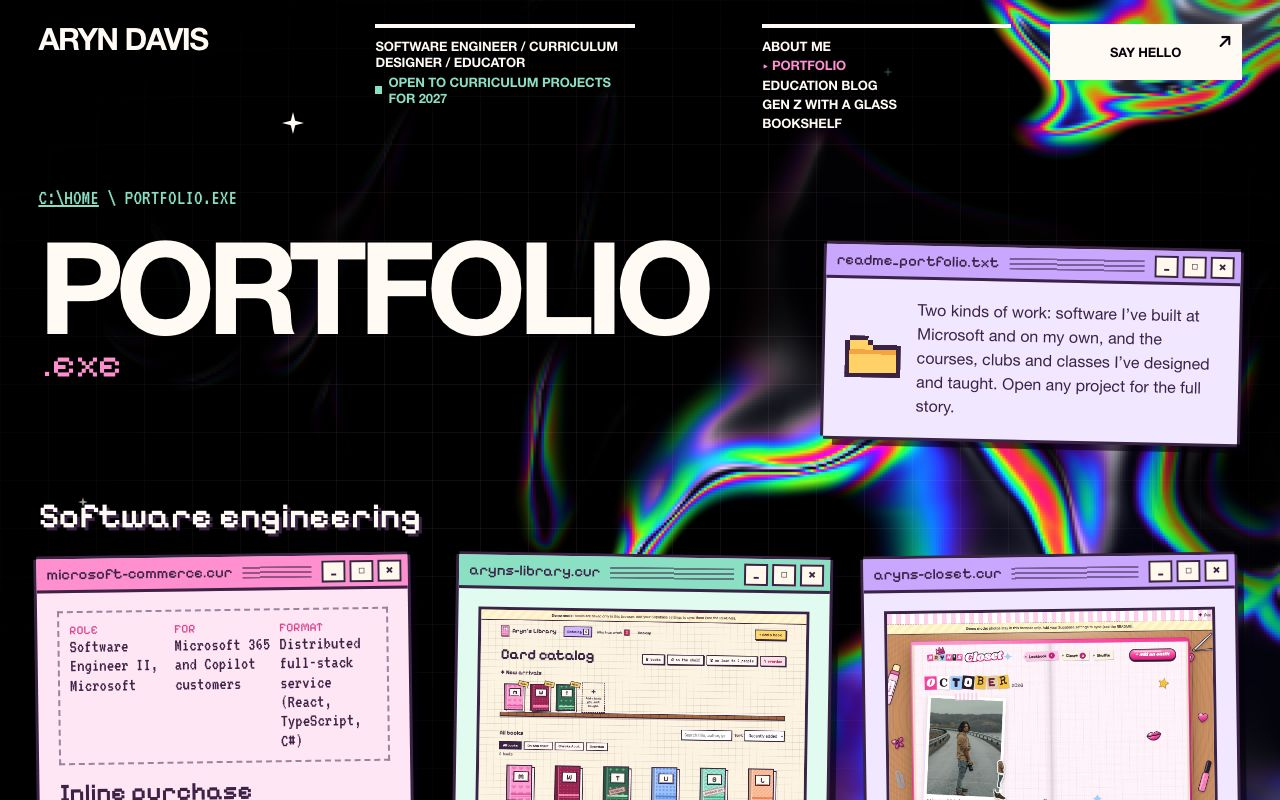
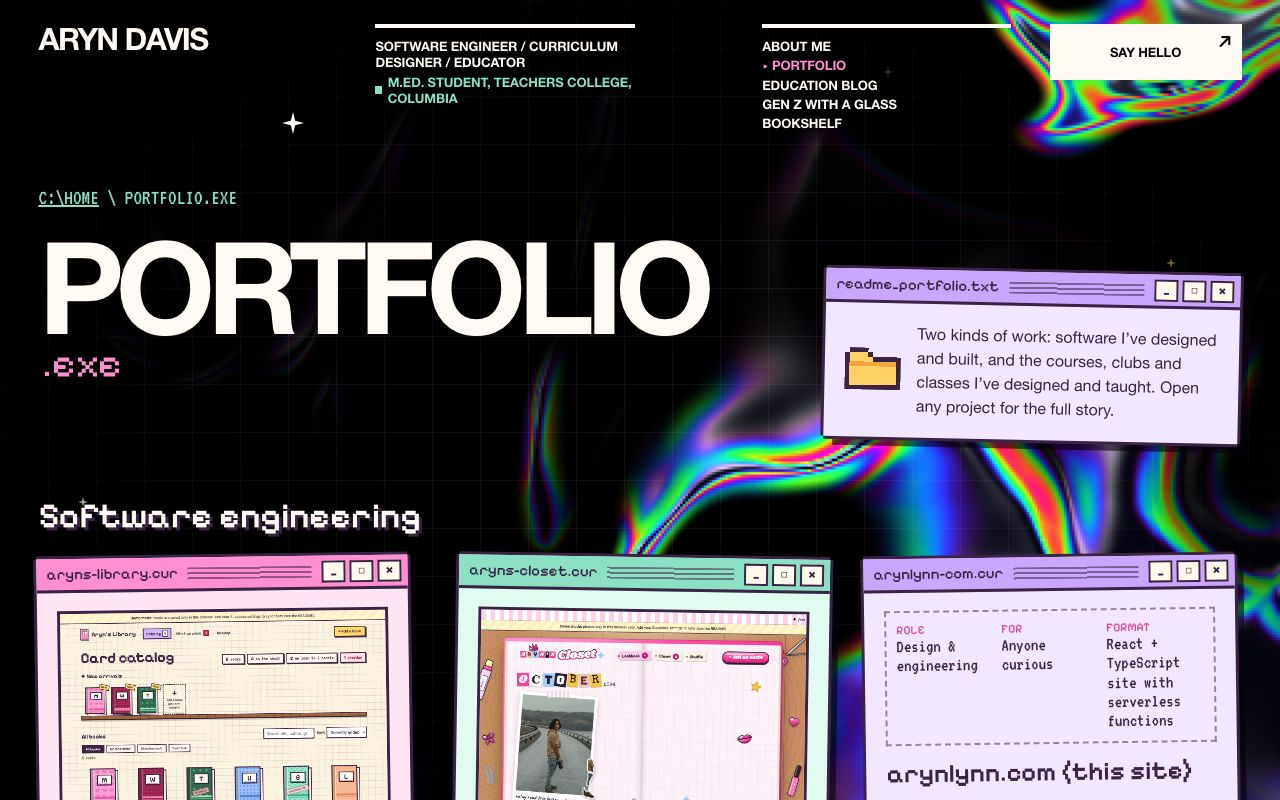
Bio update: M.Ed. at Teachers College, NYC, LinkedIn and Instagram
- About text: software engineer and curriculum designer; five years at
  Microsoft (2021-2026); now an M.Ed. student in Technology, Media, and
  Learning at Teachers College, Columbia (expected May 2028).
- Header status, quick facts (New York City; crochet, sewing, golf,
  Riesling), LinkedIn and Instagram (@aryn.creates) buttons, and links
  in the mail window.
- Contact email is hello@arynlynn.com (forwarded), not a personal inbox.
- Portfolio: remove job projects (Microsoft, Fidelity); Made Space
  ended Apr 2026.

diff --git a/src/content/portfolio.ts b/src/content/portfolio.ts
@@ -1,49 +1,10 @@
 import type { Project } from './types'
 
 // Two tracks, each under its own heading on the Portfolio page:
-//   'software'   — engineering work (jobs from my CV, and projects on github.com/aryndavis)
+//   'software'   — things I've built that are on github.com/aryndavis (job work stays off the site)
 //   'curriculum' — curriculum design and teaching (from my CV; most of these have no public demo)
 // `date` sorts newest first; `period` is shown instead of the date for work that spans time.
 export const projects: Project[] = [
-  {
-    slug: 'microsoft-commerce',
-    track: 'software',
-    title: 'Inline purchase experiences at Microsoft',
-    date: '2026-10-20',
-    period: 'Aug 2021 – present',
-    role: 'Software Engineer II, Microsoft',
-    audience: 'Microsoft 365 and Copilot customers',
-    format: 'Distributed full-stack service (React, TypeScript, C#)',
-    summary: 'The in-product checkout behind Microsoft 365 and Copilot purchases, plus security leadership and service telemetry.',
-    tags: ['React', 'TypeScript', 'C#', 'Azure', 'Security'],
-    body: [
-      { type: 'p', text: 'I’m a Software Engineer II in Seattle. This work is internal to Microsoft, so there’s no public demo, but here’s what I’ve built.' },
-      { type: 'h', text: 'Inline transactions' },
-      {
-        type: 'list',
-        items: [
-          'Integrated new products and redesigned the UX of a distributed full-stack service for inline purchases, delivered across multiple Microsoft products (React, TypeScript, C#)',
-          'Built an API for product availability and geo-specific support, contributing to a 10% increase in Microsoft 365 subscription acquisitions and a 45% increase in consumer and commercial Microsoft Copilot acquisition rates',
-          'End-to-end test automation with Playwright and React Testing Library',
-          'Converted the in-app transaction component into a single-page experience and A/B tested UX variations, raising acquisition rates 13%',
-          'Tuned dynamic routing and CDN caching with Azure Front Door to handle 10× normal traffic',
-        ],
-      },
-      { type: 'h', text: 'Security' },
-      {
-        type: 'list',
-        items: [
-          'Security point of contact for my product space: reviewing data flow diagrams and keeping 100% compliance with Microsoft’s Secure Future Initiative',
-          'Automated testing for web-facing vulnerabilities, with remediation by a Copilot agent that patches findings based on severity',
-        ],
-      },
-      { type: 'h', text: 'Telemetry' },
-      {
-        type: 'p',
-        text: 'Designed and built telemetry and monitoring with OpenTelemetry and Geneva for two critical physical and virtual machine allocation services in Office Automation, used for testing across Office 365, improving detection time for breakdowns and latency by 20%.',
-      },
-    ],
-  },
   {
     slug: 'aryns-library',
     track: 'software',
@@ -201,76 +162,11 @@ export const projects: Project[] = [
     ],
   },
   {
-    slug: 'microsoft-test-clustering',
-    track: 'software',
-    title: 'Finding redundant tests with clustering',
-    date: '2020-08-01',
-    period: 'Summer 2020',
-    role: 'Software Engineering Intern, Microsoft',
-    audience: 'Microsoft test automation',
-    format: 'Python data pipeline',
-    summary: 'Machine learning that spotted 10% of 700+ automated tests as candidates for pruning, saving 2 hours and $150 a week.',
-    tags: ['Python', 'Machine learning', 'K-Means'],
-    body: [
-      {
-        type: 'list',
-        items: [
-          'Experimented with K-Means, DBSCAN and mean shift on automation results, telemetry, logs, failure buckets and scenario coverage to find tests that pass or fail together',
-          'Prototyped and productionized a Python tool that ingests and cleans the data, clusters it with K-Means, and outputs tests with similar behavior',
-          'Identified 10% of 700+ tests as candidates for pruning, saving 2 hours and $150 per week in test automation',
-        ],
-      },
-    ],
-  },
-  {
-    slug: 'azure-devops-branch-health',
-    track: 'software',
-    title: 'Branch health dashboards for Azure DevOps',
-    date: '2019-08-01',
-    period: 'Summer 2019',
-    role: 'Explore Intern, Microsoft',
-    audience: 'Microsoft 365 Office product teams',
-    format: 'Azure DevOps widgets (React, TypeScript)',
-    summary: 'Dashboard widgets that track Git branch health for Microsoft 365 Office teams, built around their feedback.',
-    tags: ['React', 'TypeScript', 'Accessibility'],
-    body: [
-      {
-        type: 'list',
-        items: [
-          'Planned, built and installed Azure DevOps dashboard widgets tracking branch-health metrics in Git, shaped by continuous customer feedback',
-          'Designed an accessible UI in HTML and React, with proper labels on navigation and accessible color contrast',
-          'Built the backend that calls the Azure DevOps REST API for Git information and sorts the right records, in TypeScript',
-        ],
-      },
-    ],
-  },
-  {
-    slug: 'fidelity-pricing',
-    track: 'software',
-    title: 'Faster real-time stock pricing',
-    date: '2018-08-01',
-    period: 'Summer 2018',
-    role: 'Technical Intern, Fidelity Investments',
-    audience: 'A large-scale global pricing application',
-    format: 'SQL, PowerShell, log4j',
-    summary: 'Backend scripts and performance changes for a real-time pricing app, cutting latency by 1–2 seconds.',
-    tags: ['SQL', 'PowerShell', 'Performance'],
-    body: [
-      {
-        type: 'list',
-        items: [
-          'Wrote and deployed SQL and PowerShell scripts for data patches and server migrations behind a web app that determines real-time stock pricing, making queries more reliable',
-          'Shipped backend and frontend performance changes to a large-scale global pricing application, reducing latency by 1–2 seconds',
-        ],
-      },
-    ],
-  },
-  {
     slug: 'made-space-hand-sewing',
     track: 'curriculum',
     title: 'Basic hand sewing',
-    date: '2025-10-01',
-    period: 'Oct 2025 – present',
+    date: '2026-04-01',
+    period: 'Oct 2025 – Apr 2026',
     role: 'Volunteer instructor, Made Space Seattle',
     audience: 'Adult beginners',
     format: 'Hands-on classes',
@@ -279,7 +175,7 @@ export const projects: Project[] = [
     body: [
       {
         type: 'p',
-        text: 'I lead basic hand-sewing classes focused on garment repairs and introductory embroidery, teaching foundational stitches, tool use and fabric care while building creativity and confidence in a supportive space.',
+        text: 'I led basic hand-sewing classes focused on garment repairs and introductory embroidery, teaching foundational stitches, tool use and fabric care while building creativity and confidence in a supportive space.',
       },
     ],
   },

diff --git a/src/pages/Home.tsx b/src/pages/Home.tsx
@@ -79,25 +79,38 @@ export default function Home() {
                 <h2 id="about-title">Hi, I’m {site.name.split(' ')[0]}.</h2>
               </div>
               <p>
-                I’m a software engineer at Microsoft and a curriculum designer. By day I build the checkout experiences behind Microsoft 365 and Copilot, and I’m the security point
-                of contact for my product space. Outside of work, I design and teach: Python and Django for adult learners, web development courses for CodePath, coding clubs for
-                Black Girls Code, and, lately, hand-sewing classes at Made Space.
+                I’m a software engineer and a curriculum designer, and I love the places where the two meet. I spent five years as a software engineer at Microsoft, building the
+                checkout experiences behind Microsoft 365 and Copilot and serving as my team’s security point of contact. Now I’m in New York, studying Technology, Media, and
+                Learning for a Master of Education at Teachers College, Columbia University.
               </p>
               <p>
-                I also build things for fun, like a library catalog for my books and a scrapbook closet that cuts my clothes out of photos. This site has rooms for all of it. Pick a
-                folder below or use the menu up top.
+                Along the way I’ve designed and taught Python and Django for adult learners, web development courses for CodePath, coding clubs for Black Girls Code, and
+                hand-sewing classes at Made Space. I still build things for fun, like a library catalog for my books and a scrapbook closet that cuts my clothes out of photos.
+                This site has rooms for all of it. Pick a folder below or use the menu up top.
               </p>
               <ul className="quick-facts">
                 <li>
-                  <PixelIcon name="star" size={16} /> Based in: Seattle, WA
+                  <PixelIcon name="star" size={16} /> Based in: New York City
                 </li>
                 <li>
-                  <PixelIcon name="heart" size={16} /> Loves: good questions, golf, sewing, natural wine
+                  <PixelIcon name="heart" size={16} /> Loves: crochet, sewing, golf, and Riesling above all
                 </li>
                 <li>
-                  <PixelIcon name="floppy" size={16} /> Background: B.S. in Computer Science (Intelligent Systems), minor in Sociology, Columbia University
+                  <PixelIcon name="floppy" size={16} /> Studying: M.Ed. in Technology, Media, and Learning, Teachers College, Columbia University (expected May 2028)
+                </li>
+                <li>
+                  <PixelIcon name="books" size={16} /> Background: B.S. in Computer Science (Intelligent Systems), minor in Sociology, Columbia University; software engineer at
+                  Microsoft, 2021–2026
                 </li>
               </ul>
+              <p className="social-links">
+                <a className="pixel-button" href={site.linkedin} target="_blank" rel="noopener noreferrer">
+                  LinkedIn ↗
+                </a>
+                <a className="pixel-button" href={site.instagram} target="_blank" rel="noopener noreferrer">
+                  Instagram: @aryn.creates ↗
+                </a>
+              </p>
             </PixelWindow>
           )}
 
@@ -176,6 +189,16 @@ export default function Home() {
                   Have a project, a question, or a bottle recommendation?
                   <br />
                   <a href={`mailto:${site.email}`}>{site.email}</a>
+                  <br />
+                  Or find me on{' '}
+                  <a href={site.linkedin} target="_blank" rel="noopener noreferrer">
+                    LinkedIn
+                  </a>{' '}
+                  and, for creative stuff,{' '}
+                  <a href={site.instagram} target="_blank" rel="noopener noreferrer">
+                    Instagram
+                  </a>
+                  .
                 </p>
               </div>
             </PixelWindow>

diff --git a/src/site.ts b/src/site.ts
@@ -3,8 +3,11 @@ export const site = {
   name: 'Aryn Davis',
   shortName: 'ARYN DAVIS',
   roles: ['Software engineer', 'Curriculum designer', 'Educator'],
-  status: 'Open to curriculum projects for 2027',
-  email: 'arynlynn1@gmail.com',
+  status: 'M.Ed. student, Teachers College, Columbia',
+  // Forwards to my personal inbox (email forwarding on the domain), so the real address stays private.
+  email: 'hello@arynlynn.com',
+  linkedin: 'https://www.linkedin.com/in/aryn-davis',
+  instagram: 'https://www.instagram.com/aryn.creates',
   substack: 'https://arynlynn.substack.com',
   year: new Date().getFullYear(),
 }
@@ -18,7 +21,7 @@ export const sections: Record<SectionKey, { path: string; label: string; file: s
     path: '/portfolio',
     label: 'Portfolio',
     file: 'portfolio.exe',
-    blurb: 'Software engineering at Microsoft and beyond, plus the courses and clubs I’ve designed and taught.',
+    blurb: 'Software I’ve built, plus the courses, clubs and classes I’ve designed and taught.',
   },
   education: {
     path: '/education',

diff --git a/src/pages/Sections.tsx b/src/pages/Sections.tsx
@@ -60,7 +60,7 @@ export function PortfolioPage({ slug }: { slug?: string }) {
           <span className="mega-ext">.exe</span>
         </>
       }
-      intro={<p>Two kinds of work: software I’ve built at Microsoft and on my own, and the courses, clubs and classes I’ve designed and taught. Open any project for the full story.</p>}
+      intro={<p>Two kinds of work: software I’ve designed and built, and the courses, clubs and classes I’ve designed and taught. Open any project for the full story.</p>}
       groups={[
         { id: 'software-engineering', title: 'Software engineering', filter: (project) => project.track === 'software' },
         { id: 'curriculum-design', title: 'Curriculum design', filter: (project) => project.track === 'curriculum' },

diff --git a/src/styles.css b/src/styles.css
@@ -1924,3 +1924,10 @@ a.pixel-button.substack-link:hover {
   gap: 10px;
   margin: 4px 0 14px;
 }
+
+.social-links {
+  display: flex;
+  flex-wrap: wrap;
+  gap: 10px;
+  margin: 14px 0 0;
+}
